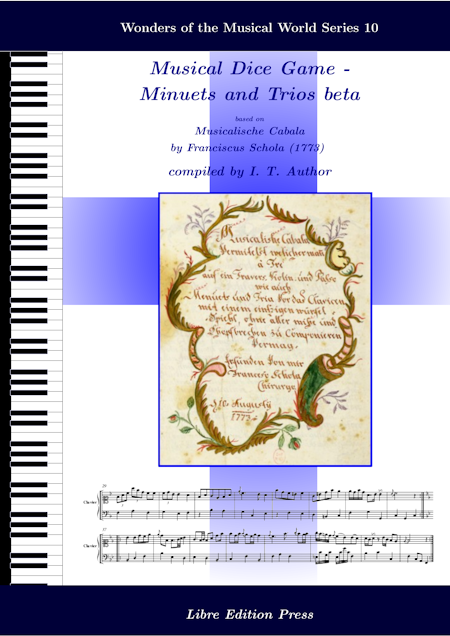
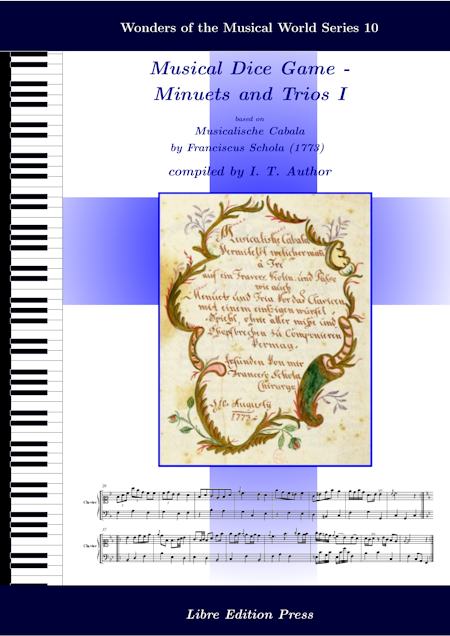
20250620

Changed region(s): [[0.3111, 0.1195, 0.8089, 0.1792]]

diff --git a/mdgBookSVG10v1.tex b/mdgBookSVG10v1.tex
@@ -38,7 +38,7 @@
 	\def\authorFirstMidNameInit{I.\ T.\ }
 	\def\authorLastName{Author}
 	\def\dateGenerated{\today}
-	\def\volNumber{beta}
+	\def\volNumber{I}
 	\def\mdgBookTitle{Musical Dice Game - \\[0.15cm] Minuets and Trios \volNumber}
 	\def\mdgBookSubTitle{{\small based on}\\ Musicalische Cabala \\[0.15cm] by Franciscus Schola (1773)  }
 	\def\theBookSeries{Wonders of the Musical World Series 10}
